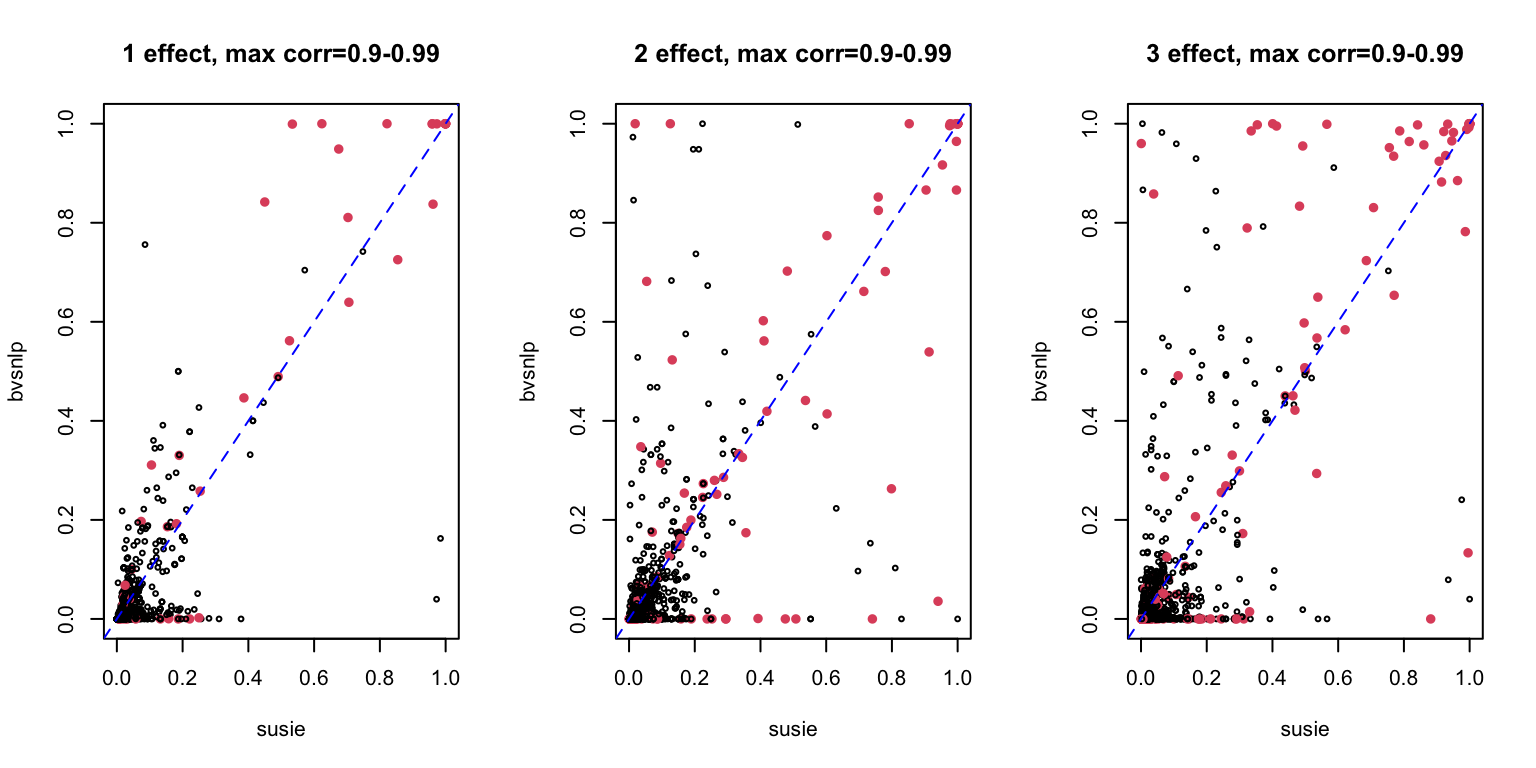
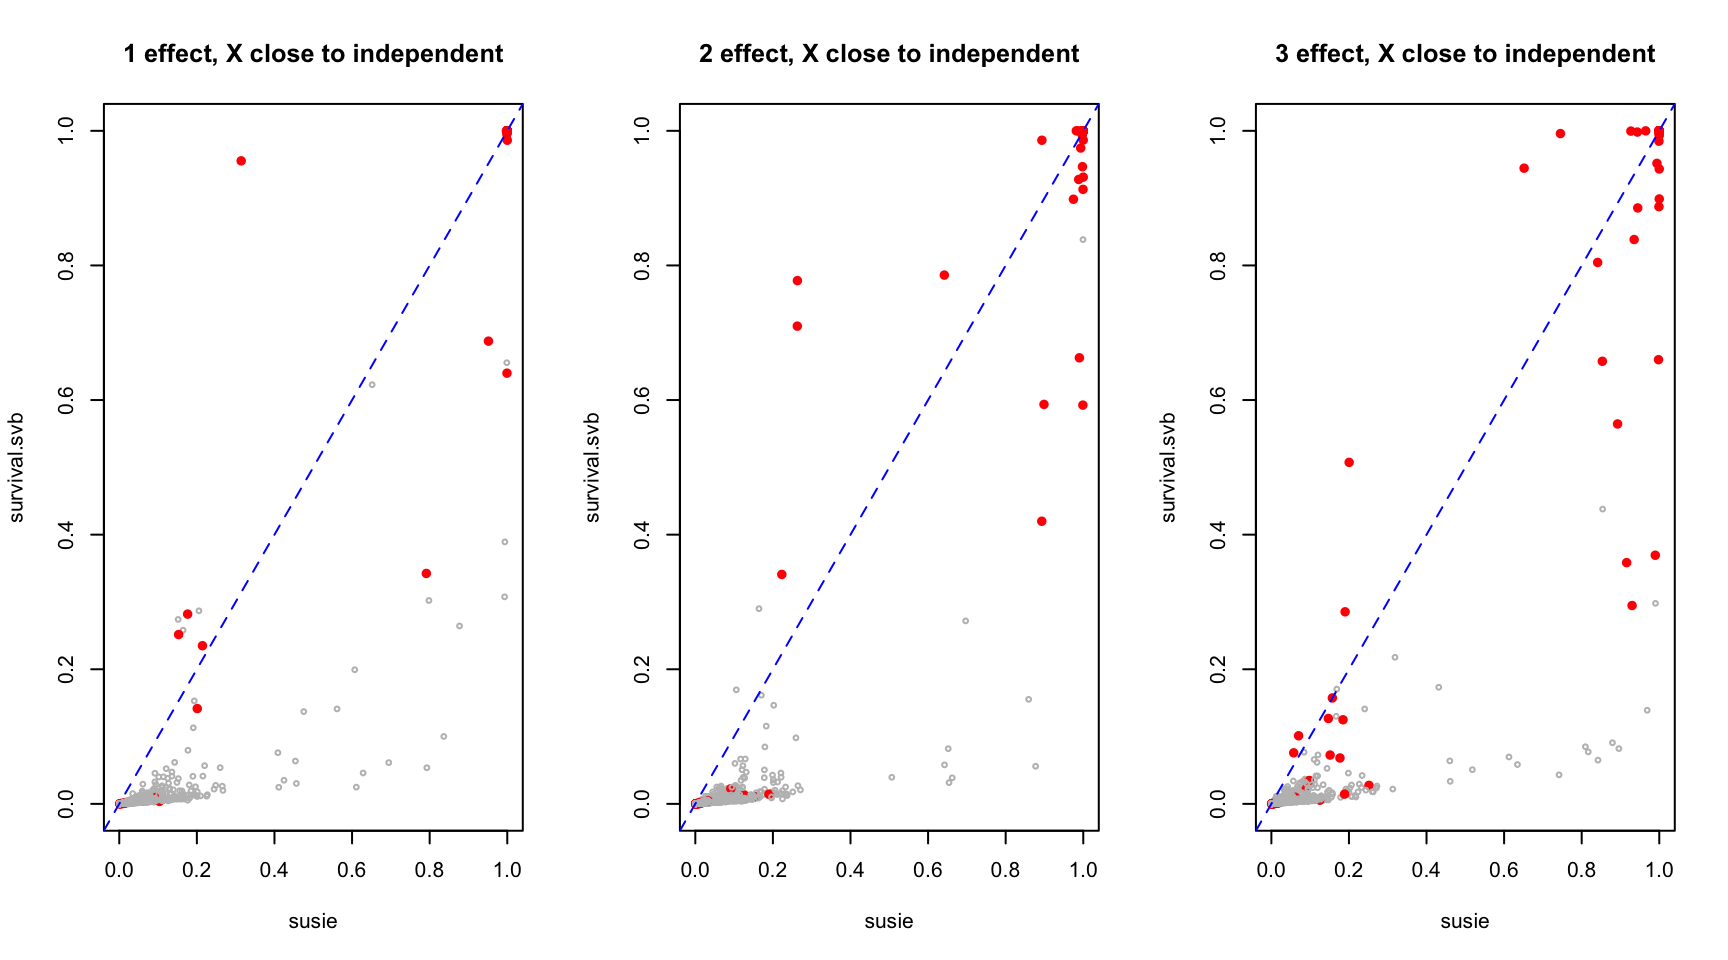
Build site.

diff --git a/docs/compare_pip.html b/docs/compare_pip.html
@@ -475,16 +475,16 @@ This reproducible <a href="http://rmarkdown.rstudio.com">R Markdown</a> analysis
 <div class="panel panel-default">
 <div class="panel-heading">
 <p class="panel-title">
-<a data-toggle="collapse" data-parent="#workflowr-checks" href="#strongRepositoryversionstrongahrefhttpsgithubcomyunqiyang0215survivalsusietree9c2e674475142d1325c7f4e228f2bd834d008f99targetblank9c2e674a"> <span class="glyphicon glyphicon-ok text-success" aria-hidden="true"></span> <strong>Repository version:</strong> <a href="https://github.com/yunqiyang0215/survival-susie/tree/9c2e674475142d1325c7f4e228f2bd834d008f99" target="_blank">9c2e674</a> </a>
+<a data-toggle="collapse" data-parent="#workflowr-checks" href="#strongRepositoryversionstrongahrefhttpsgithubcomyunqiyang0215survivalsusietree236fff42eea581466359fcb8650e6728aacf8c06targetblank236fff4a"> <span class="glyphicon glyphicon-ok text-success" aria-hidden="true"></span> <strong>Repository version:</strong> <a href="https://github.com/yunqiyang0215/survival-susie/tree/236fff42eea581466359fcb8650e6728aacf8c06" target="_blank">236fff4</a> </a>
 </p>
 </div>
[2 lines of base64/hex data omitted]
 <div class="panel-body">
 <p>
 Great! You are using Git for version control. Tracking code development and connecting the code version to the results is critical for reproducibility.
 </p>
 <p>
-The results in this page were generated with repository version <a href="https://github.com/yunqiyang0215/survival-susie/tree/9c2e674475142d1325c7f4e228f2bd834d008f99" target="_blank">9c2e674</a>. See the <em>Past versions</em> tab to see a history of the changes made to the R Markdown and HTML files.
+The results in this page were generated with repository version <a href="https://github.com/yunqiyang0215/survival-susie/tree/236fff42eea581466359fcb8650e6728aacf8c06" target="_blank">236fff4</a>. See the <em>Past versions</em> tab to see a history of the changes made to the R Markdown and HTML files.
 </p>
 <p>
 Note that you need to be careful to ensure that all relevant files for the analysis have been committed to Git prior to generating the results (you can use <code>wflow_publish</code> or <code>wflow_git_commit</code>). workflowr only checks the R Markdown file, but you know if there are other scripts or data files that it depends on. Below is the status of the Git repository when the results were generated:
@@ -552,6 +552,40 @@ Message
 Rmd
 </td>
 <td>
+<a href="https://github.com/yunqiyang0215/survival-susie/blob/236fff42eea581466359fcb8650e6728aacf8c06/analysis/compare_pip.Rmd" target="_blank">236fff4</a>
+</td>
+<td>
+yunqiyang0215
+</td>
+<td>
+2023-04-06
+</td>
+<td>
+wflow_publish("analysis/compare_pip.Rmd")
+</td>
+</tr>
+<tr>
+<td>
+html
+</td>
+<td>
+<a href="https://rawcdn.githack.com/yunqiyang0215/survival-susie/60fa9df64c40c4d0f8f63a4725de6551cd50ef35/docs/compare_pip.html" target="_blank">60fa9df</a>
+</td>
+<td>
+yunqiyang0215
+</td>
+<td>
+2023-04-06
+</td>
+<td>
+Build site.
+</td>
+</tr>
+<tr>
+<td>
+Rmd
+</td>
+<td>
 <a href="https://github.com/yunqiyang0215/survival-susie/blob/9c2e674475142d1325c7f4e228f2bd834d008f99/analysis/compare_pip.Rmd" target="_blank">9c2e674</a>
 </td>
 <td>
@@ -590,6 +624,13 @@ wflow_publish("analysis/compare_pip.Rmd")
 <li><p>Set L = true number of effects.</p></li>
 <li><p>Set prior variance to the true prior variance.</p></li>
 </ol>
+</div>
+<div id="conclusion" class="section level4">
+<h4><strong>Conclusion</strong>:</h4>
+<ol style="list-style-type: decimal">
+<li><p>When using the real correlation matrix, susie result is very different from survival.svb. And survival.svb seems to have better results, as capturing more effects.</p></li>
+<li><p>In other scenarios, results are more consistent across methods.</p></li>
+</ol>
 <pre class="r"><code>compare_pip &lt;- function(pip1, pip2, effect_indx, dat_indx, p){
   is_effect = c()
   for (i in dat_indx){
@@ -603,26 +644,17 @@ wflow_publish("analysis/compare_pip.Rmd")
 <pre class="r"><code>plot_pip &lt;- function(res.pip, labs, main){
   pch = ifelse(res.pip$is_effect == 1, 16, 1)
   cex = ifelse(res.pip$is_effect == 1, 1, 0.5)
-  col = ifelse(res.pip$is_effect == 1, 2, 1)
+  col = ifelse(res.pip$is_effect == 1, &quot;red&quot;, &quot;grey&quot;)
   plot(res.pip$pip1, res.pip$pip2, col = col, pch = pch, cex = cex, 
        xlab = labs[1], ylab = labs[2], main = main)
 }</code></pre>
 <pre class="r"><code>susie = readRDS(&quot;./data/susie.rds&quot;)
 survsvb = readRDS(&quot;./data/survsvb.rds&quot;)
 bvsnlp = readRDS(&quot;./data/bvsnlp.rds&quot;)</code></pre>
-<pre class="r"><code>names(susie)</code></pre>
-<pre><code>[1] &quot;DSC&quot;                   &quot;simulate.cor_type&quot;     &quot;simulate.num_effect&quot;  
-[4] &quot;simulate.effect_indx&quot;  &quot;simulate.effect_size&quot;  &quot;susie.effect_estimate&quot;
-[7] &quot;susie.pip&quot;            </code></pre>
-<pre class="r"><code>names(survsvb)</code></pre>
-<pre><code>[1] &quot;DSC&quot;                         &quot;simulate.cor_type&quot;          
-[3] &quot;simulate.num_effect&quot;         &quot;simulate.effect_indx&quot;       
-[5] &quot;simulate.effect_size&quot;        &quot;survivalsvb.effect_estimate&quot;
-[7] &quot;survivalsvb.pip&quot;            </code></pre>
-<pre class="r"><code>names(bvsnlp)</code></pre>
-<pre><code>[1] &quot;DSC&quot;                    &quot;simulate.cor_type&quot;      &quot;simulate.num_effect&quot;   
-[4] &quot;simulate.effect_indx&quot;   &quot;simulate.effect_size&quot;   &quot;bvsnlp.effect_estimate&quot;
-[7] &quot;bvsnlp.pip&quot;            </code></pre>
+</div>
+</div>
+<div id="use-the-real-correlation-of-snps" class="section level3">
+<h3>1. Use the real correlation of SNPs</h3>
 <pre class="r"><code>par(mfrow = c(1,3))
 for (num in 1:3){
   indx = which(susie$simulate.cor_type == &quot;real&quot; &amp; susie$simulate.num_effect == num)[1:50]
@@ -632,7 +664,7 @@ for (num in 1:3){
   res.pip = compare_pip(pip.susie, pip.survsvb, susie$simulate.effect_indx, dat_indx = indx, p =1e3)
   plot_pip(res.pip, labs = c(&quot;susie&quot;, &quot;survival.svb&quot;), main = paste0(num, &quot; effect, max corr=0.9-0.99&quot;))
 }</code></pre>
-<p><img src="figure/compare_pip.Rmd/unnamed-chunk-5-1.png" width="768" style="display: block; margin: auto;" /></p>
+<p><img src="figure/compare_pip.Rmd/unnamed-chunk-4-1.png" width="864" style="display: block; margin: auto;" /></p>
 <pre class="r"><code>par(mfrow = c(1,3))
 for (num in 1:3){
   indx = which(susie$simulate.cor_type == &quot;real&quot; &amp; susie$simulate.num_effect == num)[1:50]
@@ -643,7 +675,47 @@ for (num in 1:3){
   plot_pip(res.pip, labs = c(&quot;susie&quot;, &quot;bvsnlp&quot;), main = paste0(num, &quot; effect, max corr=0.9-0.99&quot;))
   abline(a = 0, b = 1, lty = 2, col = &quot;blue&quot;)
 }</code></pre>
-<p><img src="figure/compare_pip.Rmd/unnamed-chunk-6-1.png" width="768" style="display: block; margin: auto;" /></p>
+<p><img src="figure/compare_pip.Rmd/unnamed-chunk-5-1.png" width="864" style="display: block; margin: auto;" /></p>
+<p>
+<button type="button" class="btn btn-default btn-xs btn-workflowr btn-workflowr-fig" data-toggle="collapse" data-target="#fig-unnamed-chunk-5-1">
+Past versions of unnamed-chunk-5-1.png
+</button>
+</p>
+<div id="fig-unnamed-chunk-5-1" class="collapse">
+<div class="table-responsive">
+<table class="table table-condensed table-hover">
+<thead>
+<tr>
+<th>
+Version
+</th>
+<th>
+Author
+</th>
+<th>
+Date
+</th>
+</tr>
+</thead>
+<tbody>
+<tr>
+<td>
+<a href="https://github.com/yunqiyang0215/survival-susie/blob/60fa9df64c40c4d0f8f63a4725de6551cd50ef35/docs/figure/compare_pip.Rmd/unnamed-chunk-5-1.png" target="_blank">60fa9df</a>
+</td>
+<td>
+yunqiyang0215
+</td>
+<td>
+2023-04-06
+</td>
+</tr>
+</tbody>
+</table>
+</div>
+</div>
+</div>
+<div id="near-independent-snps" class="section level3">
+<h3>2. Near independent SNPs</h3>
 <pre class="r"><code>par(mfrow = c(1,3))
 for (num in 1:3){
   indx = which(susie$simulate.cor_type == &quot;independent&quot; &amp; susie$simulate.num_effect == num)[1:50]
@@ -654,7 +726,44 @@ for (num in 1:3){
   plot_pip(res.pip, labs = c(&quot;susie&quot;, &quot;survival.svb&quot;), main = paste0(num, &quot; effect, X close to independent&quot;))
   abline(a = 0, b = 1, lty = 2, col = &quot;blue&quot;)
 }</code></pre>
-<p><img src="figure/compare_pip.Rmd/unnamed-chunk-7-1.png" width="768" style="display: block; margin: auto;" /></p>
+<p><img src="figure/compare_pip.Rmd/unnamed-chunk-6-1.png" width="864" style="display: block; margin: auto;" /></p>
+<p>
+<button type="button" class="btn btn-default btn-xs btn-workflowr btn-workflowr-fig" data-toggle="collapse" data-target="#fig-unnamed-chunk-6-1">
+Past versions of unnamed-chunk-6-1.png
+</button>
+</p>
+<div id="fig-unnamed-chunk-6-1" class="collapse">
+<div class="table-responsive">
+<table class="table table-condensed table-hover">
+<thead>
+<tr>
+<th>
+Version
+</th>
+<th>
+Author
+</th>
+<th>
+Date
+</th>
+</tr>
+</thead>
+<tbody>
+<tr>
+<td>
+<a href="https://github.com/yunqiyang0215/survival-susie/blob/60fa9df64c40c4d0f8f63a4725de6551cd50ef35/docs/figure/compare_pip.Rmd/unnamed-chunk-6-1.png" target="_blank">60fa9df</a>
+</td>
+<td>
+yunqiyang0215
+</td>
+<td>
+2023-04-06
+</td>
+</tr>
+</tbody>
+</table>
+</div>
+</div>
 <pre class="r"><code>par(mfrow = c(1,3))
 for (num in 1:3){
   indx = which(susie$simulate.cor_type == &quot;independent&quot; &amp; susie$simulate.num_effect == num)[1:50]
@@ -665,7 +774,44 @@ for (num in 1:3){
   plot_pip(res.pip, labs = c(&quot;susie&quot;, &quot;bvsnlp&quot;), main = paste0(num, &quot; effect, X close to independent&quot;))
   abline(a = 0, b = 1, lty = 2, col = &quot;blue&quot;)
 }</code></pre>
-<p><img src="figure/compare_pip.Rmd/unnamed-chunk-8-1.png" width="768" style="display: block; margin: auto;" /></p>
+<p><img src="figure/compare_pip.Rmd/unnamed-chunk-7-1.png" width="864" style="display: block; margin: auto;" /></p>
+<p>
+<button type="button" class="btn btn-default btn-xs btn-workflowr btn-workflowr-fig" data-toggle="collapse" data-target="#fig-unnamed-chunk-7-1">
+Past versions of unnamed-chunk-7-1.png
+</button>
+</p>
+<div id="fig-unnamed-chunk-7-1" class="collapse">
+<div class="table-responsive">
+<table class="table table-condensed table-hover">
+<thead>
+<tr>
+<th>
+Version
+</th>
+<th>
+Author
+</th>
+<th>
+Date
+</th>
+</tr>
+</thead>
+<tbody>
+<tr>
+<td>
+<a href="https://github.com/yunqiyang0215/survival-susie/blob/60fa9df64c40c4d0f8f63a4725de6551cd50ef35/docs/figure/compare_pip.Rmd/unnamed-chunk-7-1.png" target="_blank">60fa9df</a>
+</td>
+<td>
+yunqiyang0215
+</td>
+<td>
+2023-04-06
+</td>
+</tr>
+</tbody>
+</table>
+</div>
+</div>
 <br>
 <p>
 <button type="button" class="btn btn-default btn-workflowr btn-workflowr-sessioninfo" data-toggle="collapse" data-target="#workflowr-sessioninfo" style="display: block;">
@@ -703,7 +849,6 @@ loaded via a namespace (and not attached):
 [33] whisker_0.4      promises_1.2.0.1 ellipsis_0.3.2   htmltools_0.5.2 
 [37] httpuv_1.6.3     utf8_1.2.2       stringi_1.7.5    cachem_1.0.6    
 [41] crayon_1.4.1    </code></pre>
-</div>
 </div>
 </div>
 
